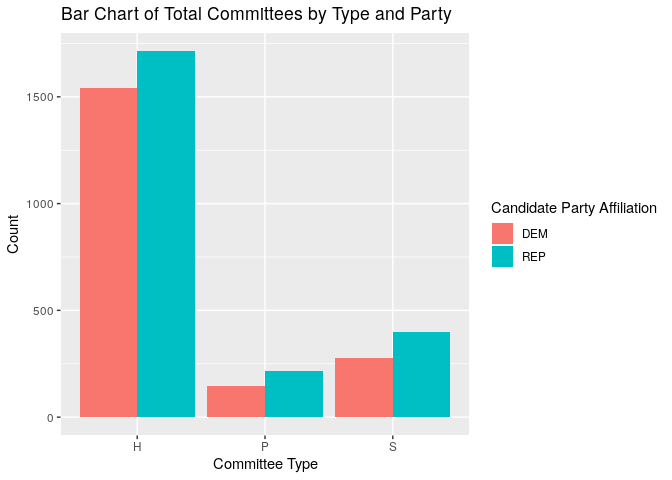
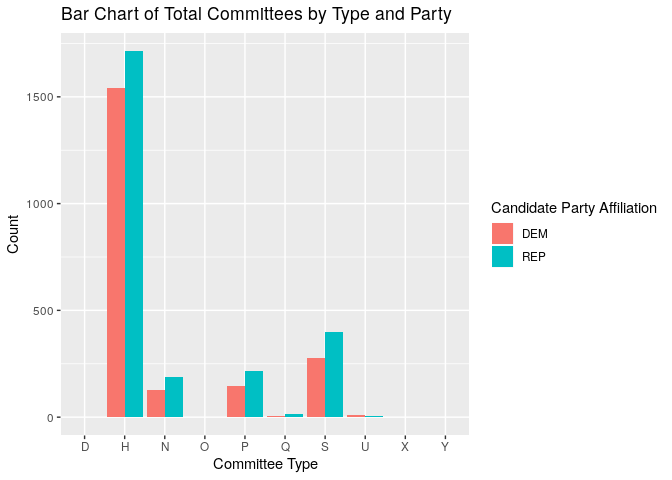
fixed README

diff --git a/README.md b/README.md
@@ -25,7 +25,7 @@ included.
 following:
 
 ``` r
-devtools::install_github("ranawg/fec16")
+devtools::install_github("baumer-lab/fec16")
 ```
 
 ``` r
@@ -53,17 +53,17 @@ are running for elections (in all offices) for the two major parties:
 
 ``` r
 library(fec16)
-library(tidyverse)
+library(dplyr)
 
 candidates %>%
-  filter(cand_pty_aff == "REP" | cand_pty_aff == "DEM") %>%
-  group_by(cand_pty_aff) %>%
+  filter(cand_pty_affiliation %in% c("REP", "DEM")) %>%
+  group_by(cand_pty_affiliation) %>%
   summarise(size = n())
 #> # A tibble: 2 x 2
-#>   cand_pty_aff  size
-#>   <fct>        <int>
-#> 1 DEM           2242
-#> 2 REP           2678
+#>   cand_pty_affiliation  size
+#>   <chr>                <int>
+#> 1 DEM                   2242
+#> 2 REP                   2677
 ```
 
 #### Joining Data
@@ -79,30 +79,30 @@ committee type:
 ``` r
 cand_cmte <- candidates %>%
   full_join(committees, by = "cand_id") %>%
-  filter(cand_pty_aff == "REP" | cand_pty_aff == "DEM") %>%
-  group_by(cand_pty_aff, committee_type) %>%
+  filter(cand_pty_affiliation %in% c("REP", "DEM")) %>%
+  group_by(cand_pty_affiliation, cmte_tp) %>%
   summarise(n = n()) %>%
-  drop_na(committee_type)
+  tidyr::drop_na(cmte_tp)
 head(cand_cmte)
 #> # A tibble: 6 x 3
-#> # Groups:   cand_pty_aff [109]
-#>   cand_pty_aff committee_type     n
-#>   <fct>        <fct>          <int>
-#> 1 DEM          H               1540
-#> 2 DEM          P                147
-#> 3 DEM          S                278
-#> 4 REP          H               1715
-#> 5 REP          P                218
-#> 6 REP          S                399
+#> # Groups:   cand_pty_affiliation [1]
+#>   cand_pty_affiliation cmte_tp     n
+#>   <chr>                <chr>   <int>
+#> 1 DEM                  H        1540
+#> 2 DEM                  N         127
+#> 3 DEM                  O           3
+#> 4 DEM                  P         147
+#> 5 DEM                  Q           7
+#> 6 DEM                  S         278
 ```
 
 ### Data Visualization
 
-And extending that to create a visualization to see the results
-easily.
+And extending that to create a visualization to see the results easily.
 
 ``` r
-ggplot(cand_cmte, aes(x = committee_type, y = n, fill = cand_pty_aff)) + 
+library(ggplot2)
+ggplot(cand_cmte, aes(x = cmte_tp, y = n, fill = cand_pty_affiliation)) + 
   geom_col(position = "dodge") +
   labs(title = "Bar Chart of Total Committees by Type and Party", 
        x = "Committee Type", y = "Count", fill = "Candidate Party Affiliation")
